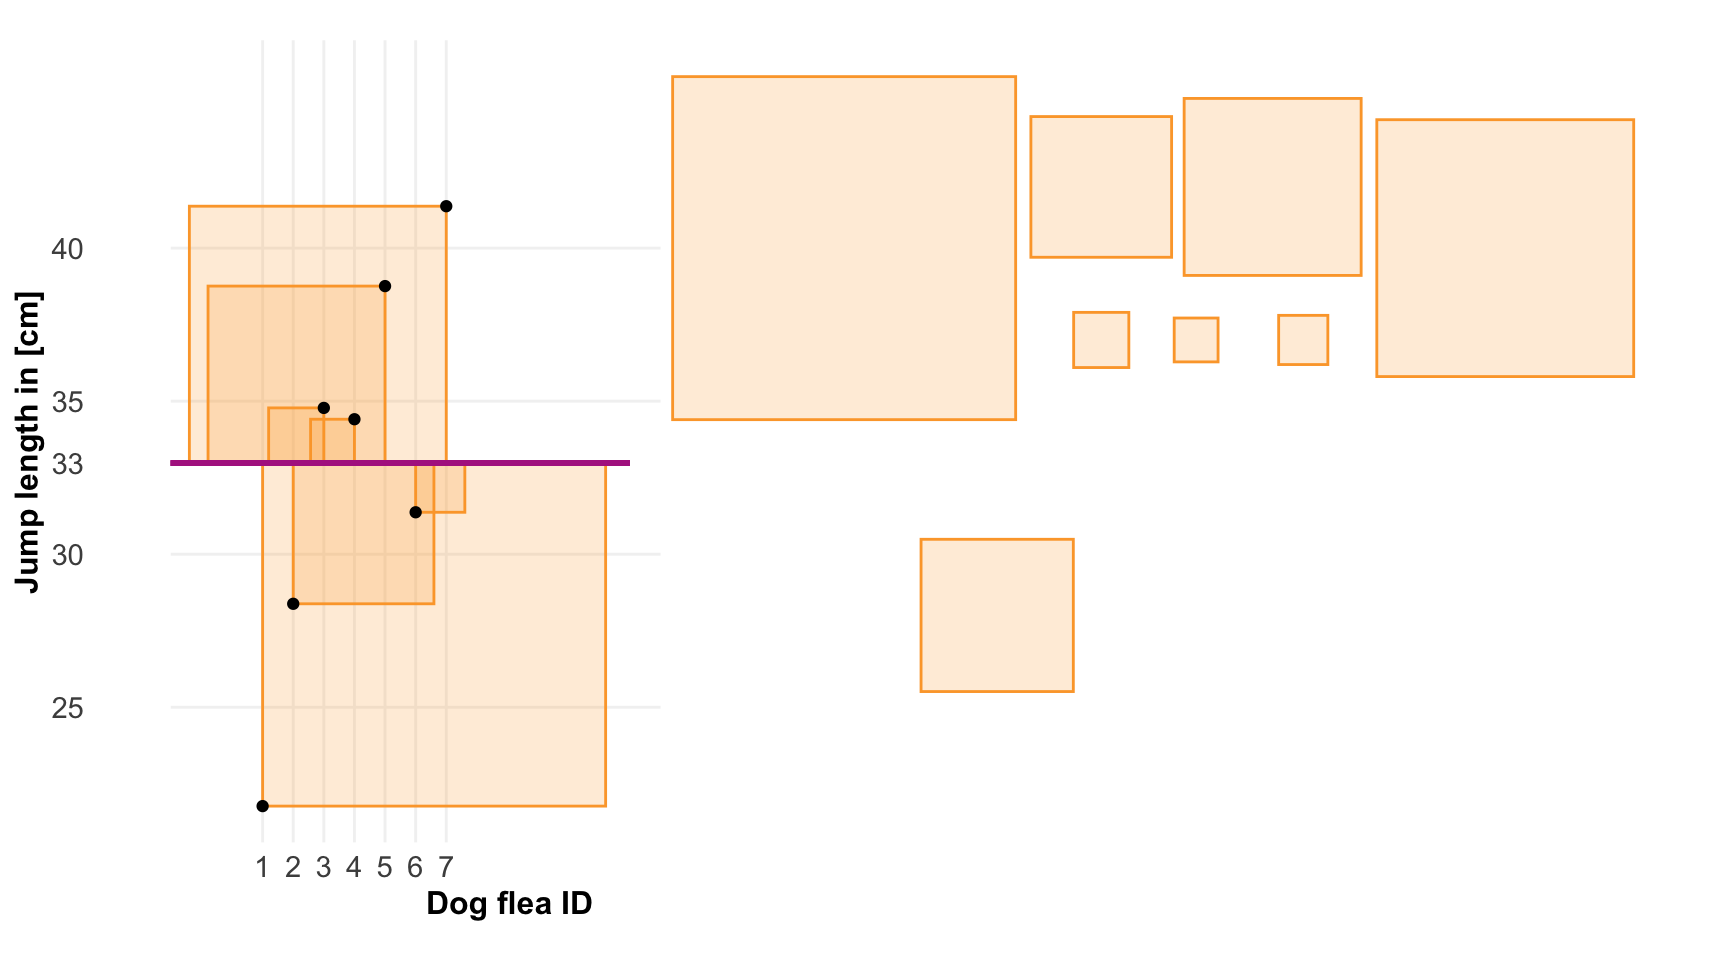
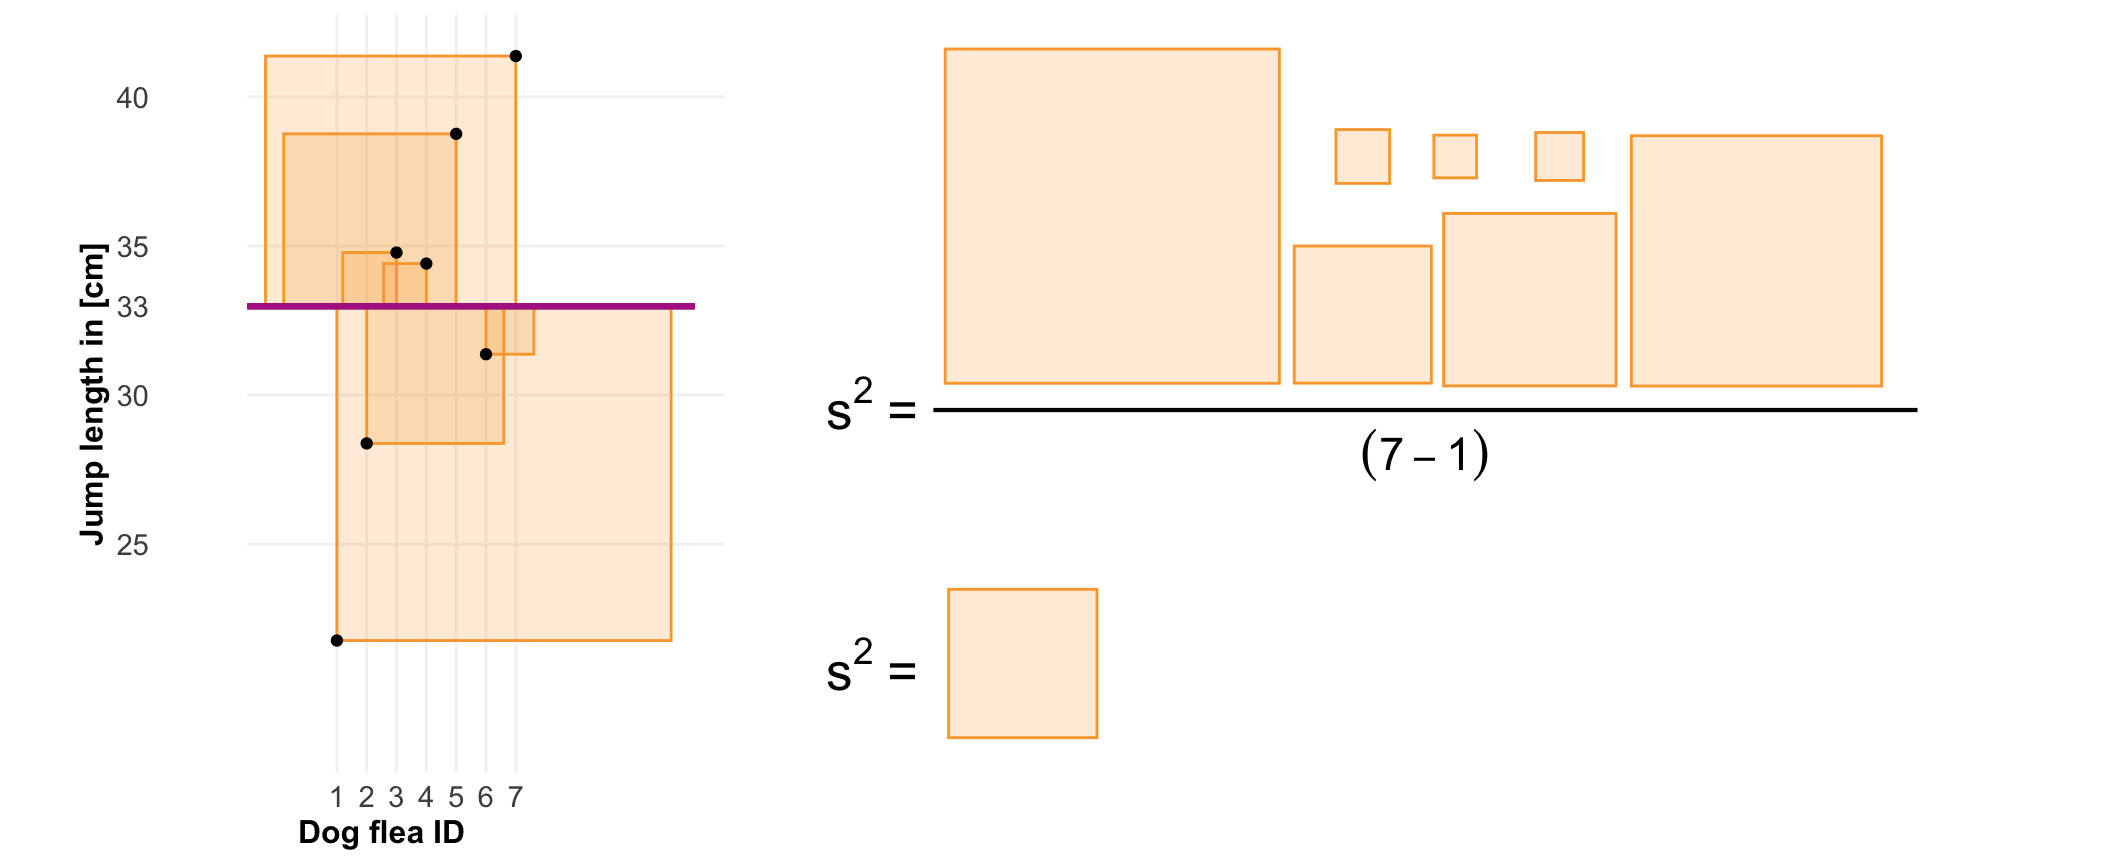
added

diff --git a/docs/chapter-41-eda.html b/docs/chapter-41-eda.html
@@ -376,7 +376,7 @@ pre > code.sourceCode > span > a:first-child::before { text-decoration: underlin
 </header>
 
 
-<p><em>Last modified on 10. December 2025 at 12:57:39</em></p>
+<p><em>Last modified on 10. December 2025 at 13:32:09</em></p>
 <blockquote class="blockquote">
 <p><em>“A quote.” — Dan Meyer</em></p>
 </blockquote>
@@ -453,7 +453,7 @@ Figure&nbsp;9.2: foo
 <div id="fig-var-example" class="quarto-float quarto-figure quarto-figure-center anchored" data-fig-align="center">
 <figure class="quarto-float quarto-float-fig figure">
 <div aria-describedby="fig-var-example-caption-0ceaefa1-69ba-4598-a22c-09a6ac19f8ca">
-<a href="chapter-41-eda_files/figure-html/fig-var-example-1.png" class="lightbox" data-gallery="quarto-lightbox-gallery-3" title="Figure&nbsp;9.3: foo"><img src="chapter-41-eda_files/figure-html/fig-var-example-1.png" class="img-fluid quarto-figure quarto-figure-center figure-img" width="864"></a>
+<a href="chapter-41-eda_files/figure-html/fig-var-example-1.png" class="lightbox" data-gallery="quarto-lightbox-gallery-3" title="Figure&nbsp;9.3: foo"><img src="chapter-41-eda_files/figure-html/fig-var-example-1.png" class="img-fluid quarto-figure quarto-figure-center figure-img" width="1056"></a>
 </div>
 <figcaption class="quarto-float-caption-bottom quarto-float-caption quarto-float-fig" id="fig-var-example-caption-0ceaefa1-69ba-4598-a22c-09a6ac19f8ca">
 Figure&nbsp;9.3: foo
@@ -1105,8 +1105,8 @@ Figure&nbsp;9.3: foo
 <span id="cb4-117"><a href="#cb4-117" aria-hidden="true" tabindex="-1"></a><span class="co">#| echo: false</span></span>
 <span id="cb4-118"><a href="#cb4-118" aria-hidden="true" tabindex="-1"></a><span class="co">#| warning: false</span></span>
 <span id="cb4-119"><a href="#cb4-119" aria-hidden="true" tabindex="-1"></a><span class="co">#| fig-align: center</span></span>
-<span id="cb4-120"><a href="#cb4-120" aria-hidden="true" tabindex="-1"></a><span class="co">#| fig-height: 5</span></span>
-<span id="cb4-121"><a href="#cb4-121" aria-hidden="true" tabindex="-1"></a><span class="co">#| fig-width: 9</span></span>
+<span id="cb4-120"><a href="#cb4-120" aria-hidden="true" tabindex="-1"></a><span class="co">#| fig-height: 4.5</span></span>
+<span id="cb4-121"><a href="#cb4-121" aria-hidden="true" tabindex="-1"></a><span class="co">#| fig-width: 11</span></span>
 <span id="cb4-122"><a href="#cb4-122" aria-hidden="true" tabindex="-1"></a><span class="co">#| fig-cap: "foo"</span></span>
 <span id="cb4-123"><a href="#cb4-123" aria-hidden="true" tabindex="-1"></a><span class="co">#| label: fig-var-example</span></span>
 <span id="cb4-124"><a href="#cb4-124" aria-hidden="true" tabindex="-1"></a></span>
@@ -1131,43 +1131,50 @@ Figure&nbsp;9.3: foo
 <span id="cb4-143"><a href="#cb4-143" aria-hidden="true" tabindex="-1"></a>                <span class="at">y =</span> jumplength <span class="sc">-</span> e<span class="sc">/</span><span class="dv">2</span>, </span>
 <span id="cb4-144"><a href="#cb4-144" aria-hidden="true" tabindex="-1"></a>                <span class="at">width =</span> e, <span class="at">height =</span> e), <span class="at">fill =</span> <span class="st">"#FCA63680"</span>,</span>
 <span id="cb4-145"><a href="#cb4-145" aria-hidden="true" tabindex="-1"></a>            <span class="at">alpha =</span> <span class="fl">0.2</span>, <span class="at">color =</span> <span class="st">"#FCA636FF"</span>, <span class="at">linewidth =</span> <span class="fl">0.5</span>) <span class="sc">+</span></span>
-<span id="cb4-146"><a href="#cb4-146" aria-hidden="true" tabindex="-1"></a>  <span class="fu">geom_tile</span>(<span class="fu">aes</span>(<span class="at">x =</span> <span class="fu">c</span>(<span class="dv">20</span>, <span class="fl">28.4</span>, <span class="fl">28.4</span>, <span class="fl">31.5</span>, <span class="dv">34</span>, <span class="dv">35</span>, <span class="fl">41.6</span>), </span>
-<span id="cb4-147"><a href="#cb4-147" aria-hidden="true" tabindex="-1"></a>                <span class="at">y =</span> <span class="fu">c</span>(<span class="dv">40</span>, <span class="dv">42</span>, <span class="dv">37</span>, <span class="dv">37</span>, <span class="dv">42</span>, <span class="dv">37</span>, <span class="dv">40</span>), </span>
+<span id="cb4-146"><a href="#cb4-146" aria-hidden="true" tabindex="-1"></a>  <span class="fu">geom_tile</span>(<span class="fu">aes</span>(<span class="at">x =</span> <span class="fu">c</span>(<span class="dv">20</span>, <span class="fl">28.4</span>, <span class="fl">28.4</span>, <span class="fl">31.5</span>, <span class="dv">34</span>, <span class="dv">35</span>, <span class="fl">41.6</span>)<span class="sc">+</span><span class="dv">7</span>, </span>
+<span id="cb4-147"><a href="#cb4-147" aria-hidden="true" tabindex="-1"></a>                <span class="at">y =</span> <span class="fu">c</span>(<span class="dv">40</span>, <span class="fl">36.7</span>, <span class="dv">42</span>, <span class="dv">42</span>, <span class="fl">37.2</span>, <span class="dv">42</span>, <span class="fl">38.5</span>)<span class="sc">-</span><span class="dv">4</span>, </span>
 <span id="cb4-148"><a href="#cb4-148" aria-hidden="true" tabindex="-1"></a>                <span class="at">width =</span> e, <span class="at">height =</span> e), <span class="at">fill =</span> <span class="st">"#FCA63680"</span>,</span>
 <span id="cb4-149"><a href="#cb4-149" aria-hidden="true" tabindex="-1"></a>            <span class="at">alpha =</span> <span class="fl">0.2</span>, <span class="at">color =</span> <span class="st">"#FCA636FF"</span>, <span class="at">linewidth =</span> <span class="fl">0.5</span>) <span class="sc">+</span></span>
-<span id="cb4-150"><a href="#cb4-150" aria-hidden="true" tabindex="-1"></a>  <span class="fu">annotate</span>(<span class="st">"tile"</span>, <span class="at">x =</span> <span class="dv">25</span>,<span class="at">y =</span> <span class="dv">28</span>, </span>
+<span id="cb4-150"><a href="#cb4-150" aria-hidden="true" tabindex="-1"></a>  <span class="fu">annotate</span>(<span class="st">"tile"</span>, <span class="at">x =</span> <span class="dv">24</span>, <span class="at">y =</span> <span class="dv">21</span>, </span>
 <span id="cb4-151"><a href="#cb4-151" aria-hidden="true" tabindex="-1"></a>           <span class="at">width =</span> sum_e_dog_jump<span class="sc">/</span><span class="dv">7</span>, <span class="at">height =</span> sum_e_dog_jump<span class="sc">/</span><span class="dv">7</span>, <span class="at">fill =</span> <span class="st">"#FCA63680"</span>,</span>
 <span id="cb4-152"><a href="#cb4-152" aria-hidden="true" tabindex="-1"></a>           <span class="at">alpha =</span> <span class="fl">0.2</span>, <span class="at">color =</span> <span class="st">"#FCA636FF"</span>, <span class="at">linewidth =</span> <span class="fl">0.5</span>) <span class="sc">+</span></span>
 <span id="cb4-153"><a href="#cb4-153" aria-hidden="true" tabindex="-1"></a>  <span class="fu">geom_segment</span>(<span class="at">x =</span> <span class="sc">-</span><span class="dv">2</span>, <span class="at">xend =</span> <span class="dv">13</span>, </span>
 <span id="cb4-154"><a href="#cb4-154" aria-hidden="true" tabindex="-1"></a>               <span class="at">y =</span> mean_dog_jump, <span class="at">yend =</span> mean_dog_jump, <span class="at">color =</span> <span class="st">"#B12A90FF"</span>, <span class="at">size =</span> <span class="dv">1</span>) <span class="sc">+</span></span>
 <span id="cb4-155"><a href="#cb4-155" aria-hidden="true" tabindex="-1"></a>  <span class="fu">geom_point</span>() <span class="sc">+</span></span>
-<span id="cb4-156"><a href="#cb4-156" aria-hidden="true" tabindex="-1"></a>  <span class="fu">scale_x_continuous</span>(<span class="at">breaks =</span> <span class="dv">1</span><span class="sc">:</span><span class="dv">7</span>, <span class="at">limits =</span> <span class="fu">c</span>(<span class="cn">NA</span>, <span class="dv">46</span>)) <span class="sc">+</span></span>
+<span id="cb4-156"><a href="#cb4-156" aria-hidden="true" tabindex="-1"></a>  <span class="fu">scale_x_continuous</span>(<span class="at">breaks =</span> <span class="dv">1</span><span class="sc">:</span><span class="dv">7</span>, <span class="at">limits =</span> <span class="fu">c</span>(<span class="cn">NA</span>, <span class="dv">55</span>)) <span class="sc">+</span></span>
 <span id="cb4-157"><a href="#cb4-157" aria-hidden="true" tabindex="-1"></a>  <span class="fu">scale_y_continuous</span>(<span class="at">breaks =</span> <span class="fu">c</span>(<span class="dv">25</span>, <span class="dv">30</span>, mean_dog_jump, <span class="dv">35</span>, <span class="dv">40</span>),</span>
 <span id="cb4-158"><a href="#cb4-158" aria-hidden="true" tabindex="-1"></a>                     <span class="at">labels =</span> <span class="fu">c</span>(<span class="st">"25"</span>, <span class="st">"30"</span>, <span class="fu">round</span>(mean_dog_jump,<span class="dv">1</span>), <span class="st">"35"</span>, <span class="st">"40"</span>),</span>
 <span id="cb4-159"><a href="#cb4-159" aria-hidden="true" tabindex="-1"></a>                     <span class="at">limits =</span> <span class="fu">c</span>(<span class="cn">NA</span>, <span class="cn">NA</span>)) <span class="sc">+</span></span>
-<span id="cb4-160"><a href="#cb4-160" aria-hidden="true" tabindex="-1"></a>  <span class="fu">labs</span>(<span class="at">x =</span> <span class="fu">str_pad</span>(<span class="st">"Dog flea ID"</span>, <span class="dv">100</span>, <span class="st">"right"</span>), <span class="at">y =</span> <span class="st">"Jump length in [cm]"</span>) <span class="sc">+</span></span>
+<span id="cb4-160"><a href="#cb4-160" aria-hidden="true" tabindex="-1"></a>  <span class="fu">labs</span>(<span class="at">x =</span> <span class="fu">str_pad</span>(<span class="st">"Dog flea ID"</span>, <span class="dv">172</span>, <span class="st">"right"</span>), <span class="at">y =</span> <span class="st">"Jump length in [cm]"</span>) <span class="sc">+</span></span>
 <span id="cb4-161"><a href="#cb4-161" aria-hidden="true" tabindex="-1"></a>  <span class="fu">scale_color_viridis</span>(<span class="at">discrete =</span> <span class="cn">TRUE</span>, <span class="at">option =</span> <span class="st">"plasma"</span>, <span class="at">end =</span> <span class="fl">0.9</span>) <span class="sc">+</span></span>
-<span id="cb4-162"><a href="#cb4-162" aria-hidden="true" tabindex="-1"></a>  <span class="fu">theme</span>(<span class="at">panel.grid =</span> <span class="fu">element_blank</span>())</span>
-<span id="cb4-163"><a href="#cb4-163" aria-hidden="true" tabindex="-1"></a><span class="in">```</span></span>
-<span id="cb4-164"><a href="#cb4-164" aria-hidden="true" tabindex="-1"></a></span>
-<span id="cb4-165"><a href="#cb4-165" aria-hidden="true" tabindex="-1"></a></span>
-<span id="cb4-166"><a href="#cb4-166" aria-hidden="true" tabindex="-1"></a><span class="fu">## Alternatives </span></span>
-<span id="cb4-167"><a href="#cb4-167" aria-hidden="true" tabindex="-1"></a></span>
-<span id="cb4-168"><a href="#cb4-168" aria-hidden="true" tabindex="-1"></a>Further tutorials and R packages on XXX</span>
-<span id="cb4-169"><a href="#cb4-169" aria-hidden="true" tabindex="-1"></a></span>
-<span id="cb4-170"><a href="#cb4-170" aria-hidden="true" tabindex="-1"></a><span class="fu">## Glossary</span></span>
+<span id="cb4-162"><a href="#cb4-162" aria-hidden="true" tabindex="-1"></a>  <span class="fu">annotate</span>(<span class="st">"segment"</span>, <span class="at">x =</span> <span class="dv">21</span>, <span class="at">xend =</span> <span class="dv">54</span>, <span class="at">y =</span> <span class="fl">29.5</span>, <span class="at">yend =</span> <span class="fl">29.5</span>, <span class="at">size =</span> <span class="fl">0.75</span>) <span class="sc">+</span></span>
+<span id="cb4-163"><a href="#cb4-163" aria-hidden="true" tabindex="-1"></a>  <span class="fu">annotate</span>(<span class="st">"text"</span>, <span class="at">x =</span> <span class="fl">20.5</span>, <span class="at">y =</span> <span class="fl">29.75</span>, <span class="at">hjust =</span> <span class="st">"right"</span>, <span class="at">label =</span> <span class="fu">expression</span>(s<span class="sc">^</span><span class="dv">2</span><span class="sc">~</span><span class="st">"="</span>),</span>
+<span id="cb4-164"><a href="#cb4-164" aria-hidden="true" tabindex="-1"></a>           <span class="at">size =</span> <span class="dv">7</span>) <span class="sc">+</span> </span>
+<span id="cb4-165"><a href="#cb4-165" aria-hidden="true" tabindex="-1"></a>  <span class="fu">annotate</span>(<span class="st">"text"</span>, <span class="at">x =</span> <span class="fl">37.5</span>, <span class="at">y =</span> <span class="dv">28</span>, <span class="at">hjust =</span> <span class="st">"center"</span>, <span class="at">label =</span> <span class="fu">expression</span>((<span class="dv">7-1</span>)),</span>
+<span id="cb4-166"><a href="#cb4-166" aria-hidden="true" tabindex="-1"></a>           <span class="at">size =</span> <span class="dv">6</span>) <span class="sc">+</span> </span>
+<span id="cb4-167"><a href="#cb4-167" aria-hidden="true" tabindex="-1"></a>  <span class="fu">annotate</span>(<span class="st">"text"</span>, <span class="at">x =</span> <span class="fl">20.5</span>, <span class="at">y =</span> <span class="dv">21</span>, <span class="at">hjust =</span> <span class="st">"right"</span>, <span class="at">label =</span> <span class="fu">expression</span>(s<span class="sc">^</span><span class="dv">2</span><span class="sc">~</span><span class="st">"="</span>),</span>
+<span id="cb4-168"><a href="#cb4-168" aria-hidden="true" tabindex="-1"></a>           <span class="at">size =</span> <span class="dv">7</span>) <span class="sc">+</span> </span>
+<span id="cb4-169"><a href="#cb4-169" aria-hidden="true" tabindex="-1"></a>  <span class="fu">theme</span>(<span class="at">panel.grid =</span> <span class="fu">element_blank</span>())</span>
+<span id="cb4-170"><a href="#cb4-170" aria-hidden="true" tabindex="-1"></a><span class="in">```</span></span>
 <span id="cb4-171"><a href="#cb4-171" aria-hidden="true" tabindex="-1"></a></span>
-<span id="cb4-172"><a href="#cb4-172" aria-hidden="true" tabindex="-1"></a>term</span>
-<span id="cb4-173"><a href="#cb4-173" aria-hidden="true" tabindex="-1"></a></span>
-<span id="cb4-174"><a href="#cb4-174" aria-hidden="true" tabindex="-1"></a>: what does it mean.</span>
-<span id="cb4-175"><a href="#cb4-175" aria-hidden="true" tabindex="-1"></a></span>
-<span id="cb4-176"><a href="#cb4-176" aria-hidden="true" tabindex="-1"></a><span class="fu">## The meaning of "Models of Reality" in this chapter.</span></span>
-<span id="cb4-177"><a href="#cb4-177" aria-hidden="true" tabindex="-1"></a></span>
-<span id="cb4-178"><a href="#cb4-178" aria-hidden="true" tabindex="-1"></a><span class="ss">- </span>itemize with max. 5-6 words</span>
-<span id="cb4-179"><a href="#cb4-179" aria-hidden="true" tabindex="-1"></a></span>
-<span id="cb4-180"><a href="#cb4-180" aria-hidden="true" tabindex="-1"></a><span class="fu">## Summary</span></span>
-<span id="cb4-181"><a href="#cb4-181" aria-hidden="true" tabindex="-1"></a></span>
-<span id="cb4-182"><a href="#cb4-182" aria-hidden="true" tabindex="-1"></a><span class="fu">## References {.unnumbered}</span></span>
+<span id="cb4-172"><a href="#cb4-172" aria-hidden="true" tabindex="-1"></a></span>
+<span id="cb4-173"><a href="#cb4-173" aria-hidden="true" tabindex="-1"></a><span class="fu">## Alternatives </span></span>
+<span id="cb4-174"><a href="#cb4-174" aria-hidden="true" tabindex="-1"></a></span>
+<span id="cb4-175"><a href="#cb4-175" aria-hidden="true" tabindex="-1"></a>Further tutorials and R packages on XXX</span>
+<span id="cb4-176"><a href="#cb4-176" aria-hidden="true" tabindex="-1"></a></span>
+<span id="cb4-177"><a href="#cb4-177" aria-hidden="true" tabindex="-1"></a><span class="fu">## Glossary</span></span>
+<span id="cb4-178"><a href="#cb4-178" aria-hidden="true" tabindex="-1"></a></span>
+<span id="cb4-179"><a href="#cb4-179" aria-hidden="true" tabindex="-1"></a>term</span>
+<span id="cb4-180"><a href="#cb4-180" aria-hidden="true" tabindex="-1"></a></span>
+<span id="cb4-181"><a href="#cb4-181" aria-hidden="true" tabindex="-1"></a>: what does it mean.</span>
+<span id="cb4-182"><a href="#cb4-182" aria-hidden="true" tabindex="-1"></a></span>
+<span id="cb4-183"><a href="#cb4-183" aria-hidden="true" tabindex="-1"></a><span class="fu">## The meaning of "Models of Reality" in this chapter.</span></span>
+<span id="cb4-184"><a href="#cb4-184" aria-hidden="true" tabindex="-1"></a></span>
+<span id="cb4-185"><a href="#cb4-185" aria-hidden="true" tabindex="-1"></a><span class="ss">- </span>itemize with max. 5-6 words</span>
+<span id="cb4-186"><a href="#cb4-186" aria-hidden="true" tabindex="-1"></a></span>
+<span id="cb4-187"><a href="#cb4-187" aria-hidden="true" tabindex="-1"></a><span class="fu">## Summary</span></span>
+<span id="cb4-188"><a href="#cb4-188" aria-hidden="true" tabindex="-1"></a></span>
+<span id="cb4-189"><a href="#cb4-189" aria-hidden="true" tabindex="-1"></a><span class="fu">## References {.unnumbered}</span></span>
 </code></pre></div><button title="Copy to Clipboard" class="code-copy-button" data-in-quarto-modal=""><i class="bi"></i></button></div>
 </div></div></div></div></div>
 </div> <!-- /content -->
